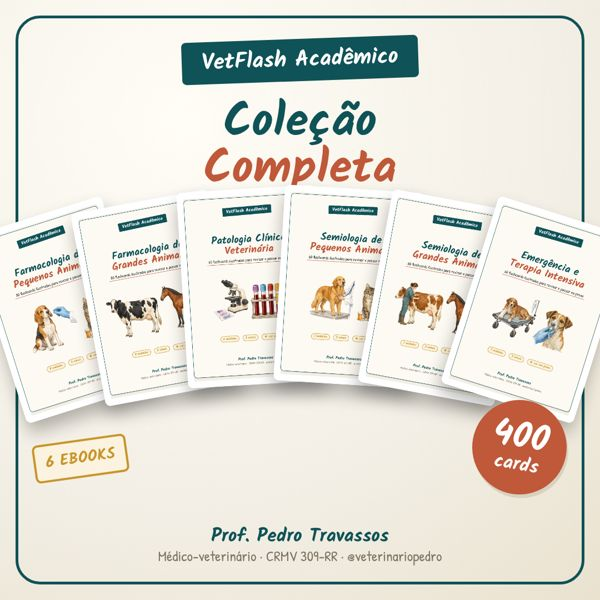
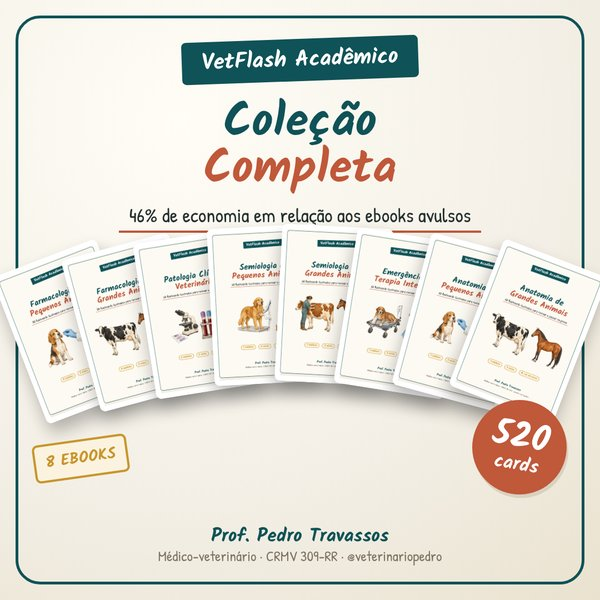
Coleção completa: 8 ebooks (com Anatomia), 520 cards, 46% de economia por R$ 147
Claude-Session: https://claude.ai/code/session_012gijotn7gQQXuGVX8bcTHv

Changed region(s): [[0.0, 0.3, 1.0, 0.75], [0.06, 0.72, 0.24, 0.78]]

diff --git a/index.html b/index.html
@@ -141,13 +141,13 @@ footer .wrap{display:flex;justify-content:space-between;gap:16px;flex-wrap:wrap}
   <div class="wrap">
     <div>
       <h1>Revise para a prova de Vet <em>em minutos por dia</em>, com flashcards ilustrados.</h1>
-      <p class="lead">Pergunta, resposta objetiva e dica de ouro em cada card. Farmacologia, Patologia Clínica, Semiologia e Emergência, escritos para acadêmicos de Medicina Veterinária.</p>
+      <p class="lead">Pergunta, resposta objetiva e dica de ouro em cada card. Farmacologia, Patologia Clínica, Semiologia, Emergência e Anatomia, escritos para acadêmicos de Medicina Veterinária.</p>
       <div class="ctas">
         <a class="btn" href="#ebooks">Ver os ebooks</a>
         <a class="btn ghost" href="#pacotes">Coleção completa por R$ 147</a>
       </div>
       <ul class="facts">
-        <li>400 flashcards</li>
+        <li>520 flashcards</li>
         <li>3 níveis de dificuldade</li>
         <li>Selo ★ cai em prova</li>
         <li>PDF para celular, tablet ou impressão</li>
@@ -289,10 +289,11 @@ footer .wrap{display:flex;justify-content:space-between;gap:16px;flex-wrap:wrap}
         <div class="buy"><span class="price">R$ 49,90</span><a class="btn small" href="https://pay.kiwify.com.br/spk41KJ">Comprar combo</a></div>
       </article>
       <article class="pack best">
-        <span class="badge">Mais completo</span>
+        <span class="badge">46% de economia</span>
         <img src="img/colecao-capa-1080.jpg" alt="Capa da Coleção Completa VetFlash Acadêmico" width="600" height="600" loading="lazy">
         <h3>Coleção completa</h3>
-        <p class="sum">Os 6 ebooks · 400 flashcards · Farmacologia, Patologia Clínica, Semiologia e Emergência</p>
+        <p class="sum">Os 8 ebooks · 520 flashcards · Farmacologia, Patologia Clínica, Semiologia, Emergência e Anatomia</p>
+        <p class="sum">Separados, os 8 ebooks custam R$ 273,20. Na coleção você paga R$ 147: <b>46% a menos</b>.</p>
         <div class="buy"><span class="price">R$ 147</span><a class="btn small" href="https://pay.kiwify.com.br/AgA04Ua">Quero a coleção</a></div>
       </article>
     </div>
